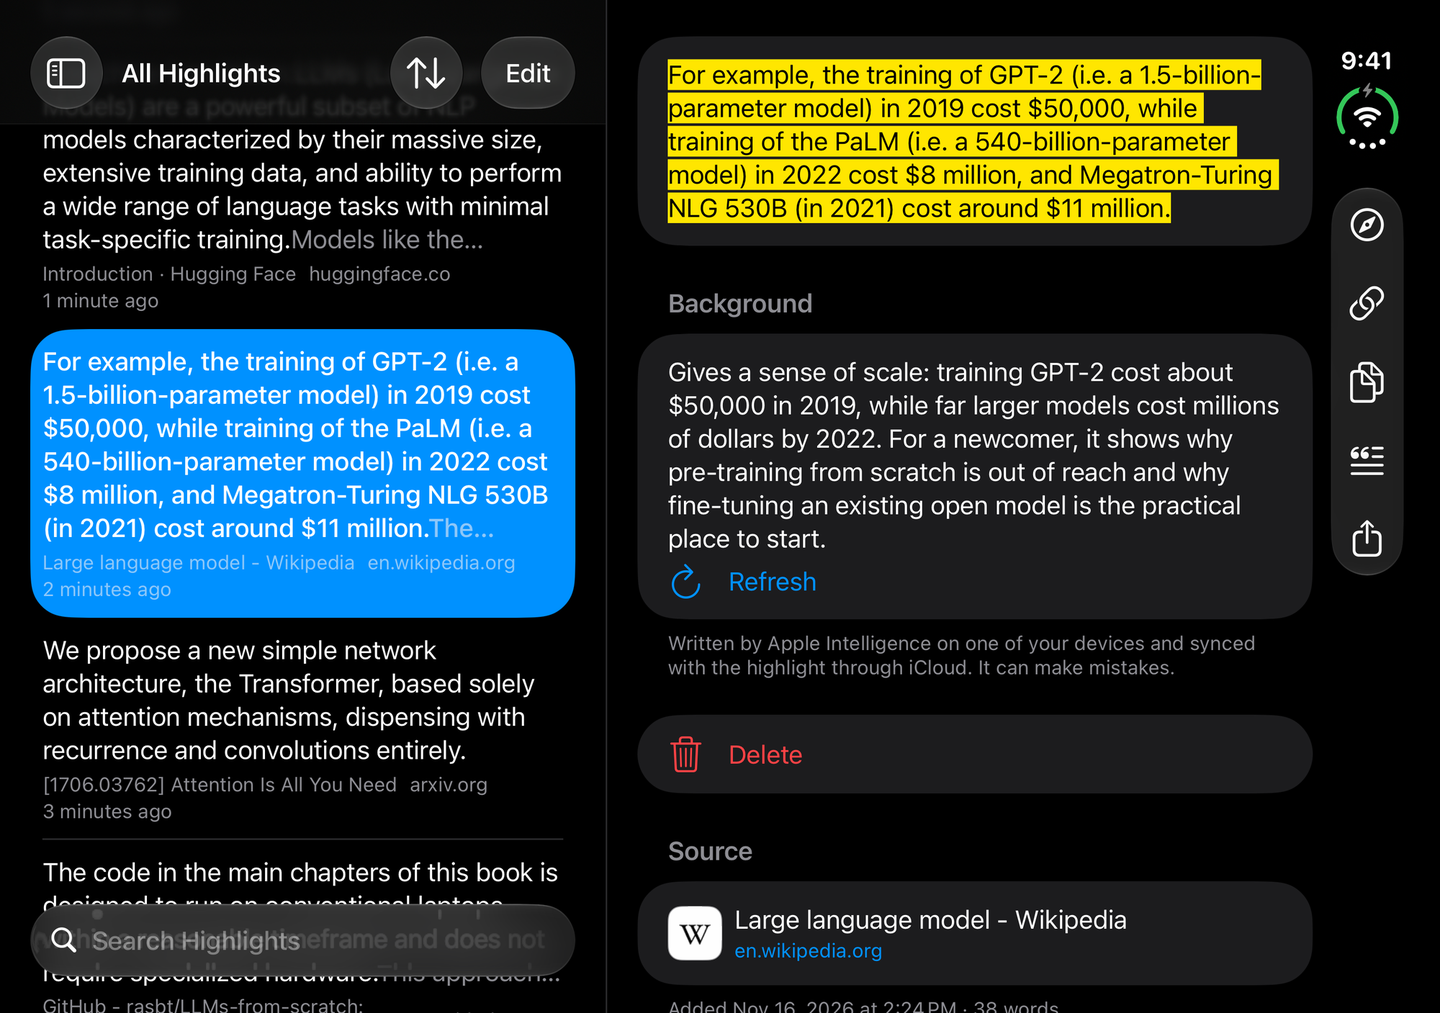
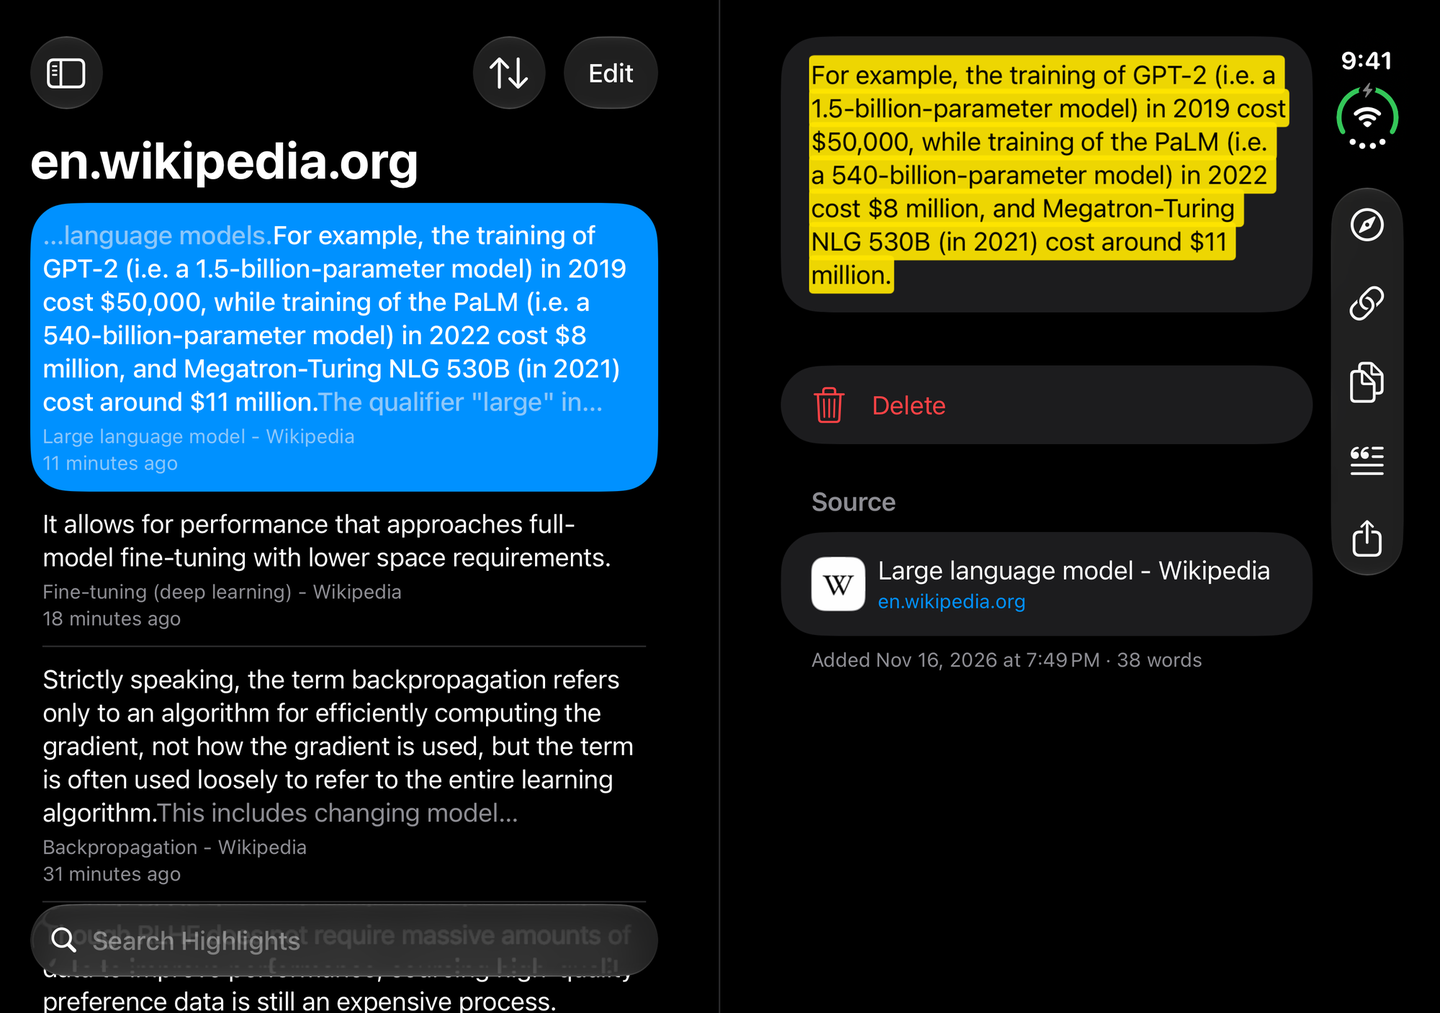
Refresh the Duo screenshots from the supplied captures
Keep mismatched Mac and simulated context replacements out of the site. Preserve all deployed app and extension icons.

diff --git a/README.md b/README.md
@@ -74,9 +74,11 @@ Below **400 CSS px**, the Air artwork is not shown or downloaded: each Mac captu
 | --- | --- | --- |
 | Hero | MacBook Air M5 · `hero` · 1960 × 1280 | Main library with its website sidebar, saved passages and selected Wikipedia training-cost highlight, AI context and source: the product overview. |
 | Add a passage. Keep its source. | MacBook Air M5 · `capture` · 1960 × 1280 | Wikipedia's large language model article with the training-cost passage highlighted: the saved result, without a fleeting Undo message. |
-| Find what you kept. | iPhone Duo · `library-duo` · 2000 × 1407 | One authentic landscape capture showing All Highlights on the left and the selected passage's details on the right. |
+| Find what you kept. | iPhone Duo · `library-duo` · 2000 × 1407 | One authentic landscape capture showing Wikipedia highlights on the left and the selected training-cost passage, source and actions on the right. No Background explanation is shown. |
 | Let AI tools search your saved passages. | Mac window · `ai-access` · 1040 × 1436 | AI settings with AI Access enabled and connection controls visible. No access token value is displayed; this is Twine's integration surface, not a built-in chat. |
 | Keep the passage in context. | iPhone 18 Pro · `context` · 1206 × 2622 | The highlight's details with its completed on-device AI context explanation and source. |
+
+The Duo's light/dark pair comes from `screenshots/iphone-duo/1-library-details-*.png` in the supplied review package. Its full-resolution WebP files decode to exactly the supplied pixels; the image is not split or composited. The other four slots and every app/extension icon are unchanged. The package's 2560 × 1600 Mac captures do not fit the Air's 2560 × 1664 opening: they would need a new, unapproved 4% height stretch. Keep the existing Mac assets until native 2560 × 1664 replacements are supplied. The existing iPhone context capture also remains in place.
 
 For replacements, use starter or public content only; conceal access tokens, personal account details and notifications. Keep light/dark dimensions and subjects matched, and update the alt text and width/height in the corresponding `shot` call in `src/index.njk`.
 
@@ -110,8 +112,8 @@ Current full-resolution measurements, in bytes:
 | Hero, dark | 575,244 | 221,244 |
 | Safari, light | 424,381 | 128,528 |
 | Safari, dark | 413,875 | 128,072 |
-| Duo, light | 1,234,818 | 458,134 |
-| Duo, dark | 1,323,003 | 520,016 |
+| Duo, light | 713,687 | 357,128 |
+| Duo, dark | 682,577 | 347,066 |
 | AI Access, light | 224,966 | 63,340 |
 | AI Access, dark | 241,552 | 61,618 |
 | iPhone context, light | 359,561 | 88,054 |
@@ -122,20 +124,20 @@ Current full-resolution measurements, in bytes:
 | iPhone 18 Pro artwork | 447,742 | 229,014 |
 | iPhone Duo artwork | 795,922 | 425,538 |
 | MacBook Air M5 artwork | 539,634 | 294,118 |
-| **Total** | **7,539,395** | **2,955,789** |
+| **Total** | **6,377,838** | **2,681,833** |
 
-These 16 native-resolution files are 60.8% smaller in total, including the new artwork. Resized candidates are additional files; a visitor does not download the whole set. The optimizer prints a JSON report with each file's size, retained variants and pixel/profile hashes.
+These 16 native-resolution files are 58.0% smaller in total, including the artwork. The refreshed Duo pair uses 704,194 bytes at native resolution, down from 978,150 bytes for the previous pair (28.0% less). Its supplied PNGs total 1,396,264 bytes; the served pair is 49.6% smaller without changing their pixels. Resized candidates are additional files; a visitor does not download the whole set. The optimizer prints a JSON report with each file's size, retained variants and pixel/profile hashes.
 
 Cold-cache Chromium measurements after scrolling the complete home page, including selected captures, artwork, masks and icons, but excluding HTTP headers and browser-UI favicons:
 
-| Viewport and density | Appearance | Previous image bytes | Current image bytes | Reduction |
+| Viewport and density | Appearance | Before Duo refresh | After Duo refresh | Reduction |
 | --- | --- | ---: | ---: | ---: |
-| 390px at 2x | Light | 2,813,703 | 852,648 | 69.7% |
-| 390px at 2x | Dark | 2,953,828 | 895,972 | 69.7% |
-| 1440px at 1x | Light | 2,813,703 | 764,478 | 72.8% |
-| 1440px at 1x | Dark | 2,953,828 | 824,166 | 72.1% |
+| 390px at 2x | Light | 852,648 | 816,572 | 4.2% |
+| 390px at 2x | Dark | 895,972 | 833,866 | 6.9% |
+| 1440px at 1x | Light | 764,478 | 728,402 | 4.7% |
+| 1440px at 1x | Dark | 824,166 | 762,060 | 7.5% |
 
-These are complete-page totals, not just first-paint savings. The new totals include the real hardware; the previous page had none. The three generated display masks and transparent fallback add 2,612 bytes across the asset set. Chromium and WebKit checks cover both appearances at 320, 390, 768, 1024 and 1440px at 1x and 2x, plus both sides of the 399/400px Air breakpoint; they confirm a single appearance, adequate selected resolution, fitted screens, no overflow and physical device heights of at least 200px. The Chromium device-size checks also pass at 12 viewport widths with browser font defaults of 12, 14 and 24px.
+These are complete-page totals, not just first-paint savings. Both columns include the official hardware; only the Duo captures changed between measurements. The three generated display masks and transparent fallback add 2,612 bytes across the asset set. Chromium and WebKit checks cover both appearances at 320, 390, 768, 1024 and 1440px at 1x and 2x, plus both sides of the 399/400px Air breakpoint; they confirm a single appearance, adequate selected resolution, fitted screens, no overflow and physical device heights of at least 200px. The earlier Chromium device-size checks also passed at 12 viewport widths with browser font defaults of 12, 14 and 24px.
 
 ### Apple artwork sources and publication
 
